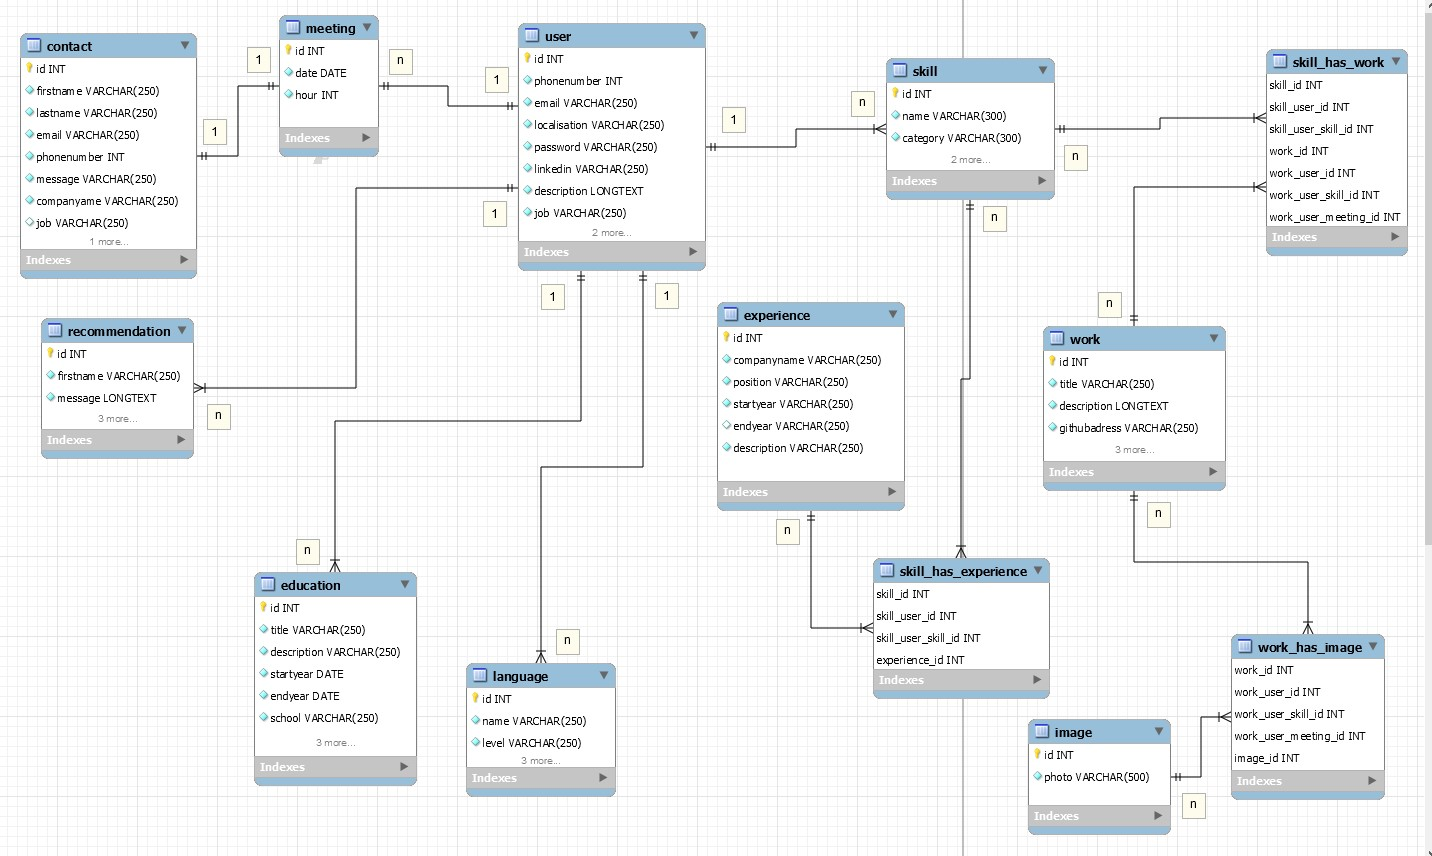
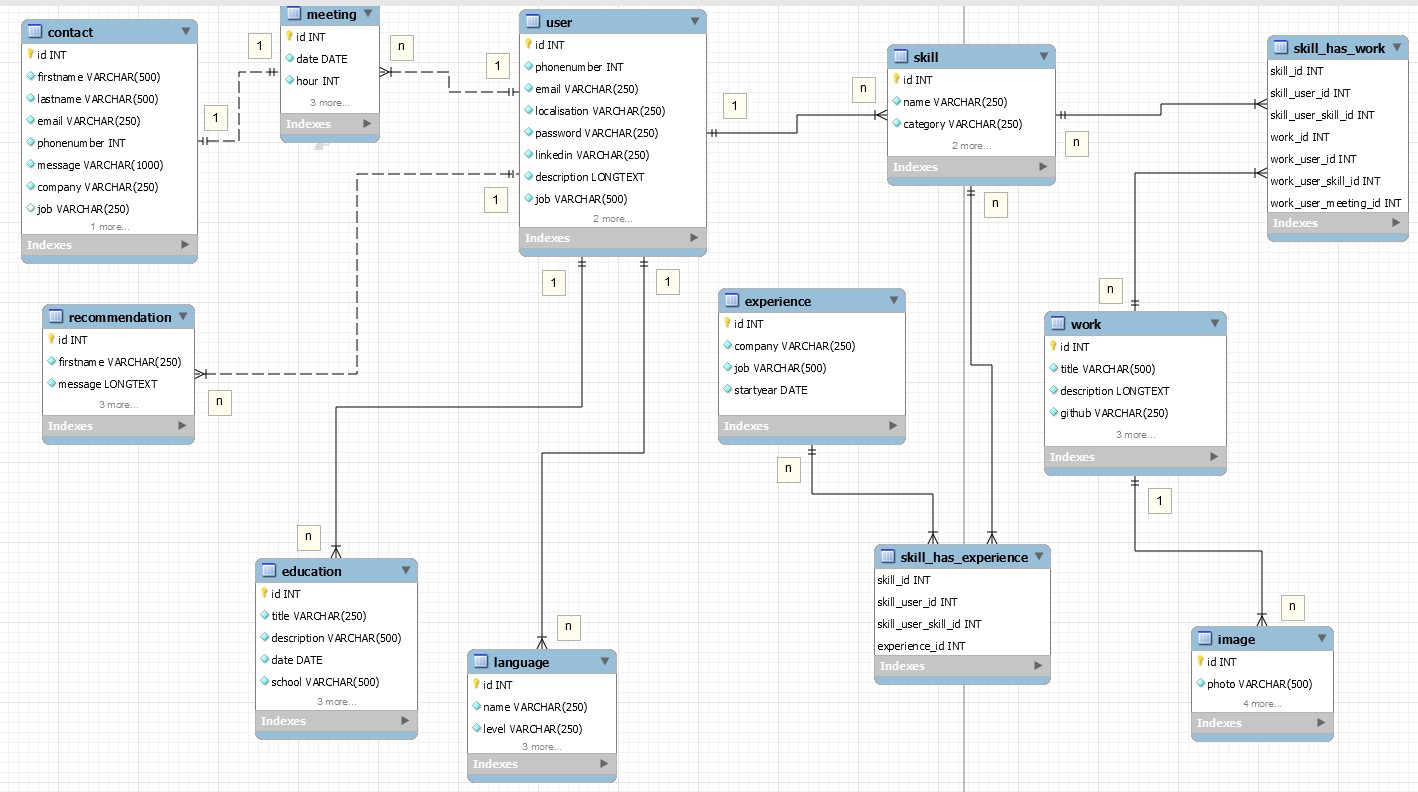
ajout entités

diff --git a/migrations/Version20240131162622.php b/migrations/Version20240131162622.php
@@ -1,0 +1,53 @@
+<?php
+
+declare(strict_types=1);
+
+namespace DoctrineMigrations;
+
+use Doctrine\DBAL\Schema\Schema;
+use Doctrine\Migrations\AbstractMigration;
+
+/**
+ * Auto-generated Migration: Please modify to your needs!
+ */
+final class Version20240131162622 extends AbstractMigration
+{
+    public function getDescription(): string
+    {
+        return '';
+    }
+
+    public function up(Schema $schema): void
+    {
+        // this up() migration is auto-generated, please modify it to your needs
+        $this->addSql('CREATE TABLE skill_work (skill_id INT NOT NULL, work_id INT NOT NULL, INDEX IDX_140FF4325585C142 (skill_id), INDEX IDX_140FF432BB3453DB (work_id), PRIMARY KEY(skill_id, work_id)) DEFAULT CHARACTER SET utf8mb4 COLLATE `utf8mb4_unicode_ci` ENGINE = InnoDB');
+        $this->addSql('CREATE TABLE skill_experience (skill_id INT NOT NULL, experience_id INT NOT NULL, INDEX IDX_10191D715585C142 (skill_id), INDEX IDX_10191D7146E90E27 (experience_id), PRIMARY KEY(skill_id, experience_id)) DEFAULT CHARACTER SET utf8mb4 COLLATE `utf8mb4_unicode_ci` ENGINE = InnoDB');
+        $this->addSql('ALTER TABLE skill_work ADD CONSTRAINT FK_140FF4325585C142 FOREIGN KEY (skill_id) REFERENCES skill (id) ON DELETE CASCADE');
+        $this->addSql('ALTER TABLE skill_work ADD CONSTRAINT FK_140FF432BB3453DB FOREIGN KEY (work_id) REFERENCES work (id) ON DELETE CASCADE');
+        $this->addSql('ALTER TABLE skill_experience ADD CONSTRAINT FK_10191D715585C142 FOREIGN KEY (skill_id) REFERENCES skill (id) ON DELETE CASCADE');
+        $this->addSql('ALTER TABLE skill_experience ADD CONSTRAINT FK_10191D7146E90E27 FOREIGN KEY (experience_id) REFERENCES experience (id) ON DELETE CASCADE');
+        $this->addSql('ALTER TABLE image ADD work_id INT DEFAULT NULL');
+        $this->addSql('ALTER TABLE image ADD CONSTRAINT FK_C53D045FBB3453DB FOREIGN KEY (work_id) REFERENCES work (id)');
+        $this->addSql('CREATE INDEX IDX_C53D045FBB3453DB ON image (work_id)');
+        $this->addSql('ALTER TABLE skill ADD user_id INT DEFAULT NULL');
+        $this->addSql('ALTER TABLE skill ADD CONSTRAINT FK_5E3DE477A76ED395 FOREIGN KEY (user_id) REFERENCES user (id)');
+        $this->addSql('CREATE INDEX IDX_5E3DE477A76ED395 ON skill (user_id)');
+    }
+
+    public function down(Schema $schema): void
+    {
+        // this down() migration is auto-generated, please modify it to your needs
+        $this->addSql('ALTER TABLE skill_work DROP FOREIGN KEY FK_140FF4325585C142');
+        $this->addSql('ALTER TABLE skill_work DROP FOREIGN KEY FK_140FF432BB3453DB');
+        $this->addSql('ALTER TABLE skill_experience DROP FOREIGN KEY FK_10191D715585C142');
+        $this->addSql('ALTER TABLE skill_experience DROP FOREIGN KEY FK_10191D7146E90E27');
+        $this->addSql('DROP TABLE skill_work');
+        $this->addSql('DROP TABLE skill_experience');
+        $this->addSql('ALTER TABLE skill DROP FOREIGN KEY FK_5E3DE477A76ED395');
+        $this->addSql('DROP INDEX IDX_5E3DE477A76ED395 ON skill');
+        $this->addSql('ALTER TABLE skill DROP user_id');
+        $this->addSql('ALTER TABLE image DROP FOREIGN KEY FK_C53D045FBB3453DB');
+        $this->addSql('DROP INDEX IDX_C53D045FBB3453DB ON image');
+        $this->addSql('ALTER TABLE image DROP work_id');
+    }
+}

diff --git a/src/Entity/Skill.php b/src/Entity/Skill.php
@@ -3,6 +3,8 @@
 namespace App\Entity;
 
 use App\Repository\SkillRepository;
+use Doctrine\Common\Collections\ArrayCollection;
+use Doctrine\Common\Collections\Collection;
 use Doctrine\ORM\Mapping as ORM;
 
 #[ORM\Entity(repositoryClass: SkillRepository::class)]
@@ -18,6 +20,21 @@ class Skill
 
     #[ORM\Column(length: 255)]
     private ?string $category = null;
+
+    #[ORM\ManyToOne(inversedBy: 'skills')]
+    private ?User $user = null;
+
+    #[ORM\ManyToMany(targetEntity: Work::class, inversedBy: 'skills')]
+    private Collection $work;
+
+    #[ORM\ManyToMany(targetEntity: Experience::class, inversedBy: 'skills')]
+    private Collection $experience;
+
+    public function __construct()
+    {
+        $this->work = new ArrayCollection();
+        $this->experience = new ArrayCollection();
+    }
 
     public function getId(): ?int
     {
@@ -44,6 +61,66 @@ class Skill
     public function setCategory(string $category): static
     {
         $this->category = $category;
+
+        return $this;
+    }
+
+    public function getUser(): ?User
+    {
+        return $this->user;
+    }
+
+    public function setUser(?User $user): static
+    {
+        $this->user = $user;
+
+        return $this;
+    }
+
+    /**
+     * @return Collection<int, Work>
+     */
+    public function getWork(): Collection
+    {
+        return $this->work;
+    }
+
+    public function addWork(Work $work): static
+    {
+        if (!$this->work->contains($work)) {
+            $this->work->add($work);
+        }
+
+        return $this;
+    }
+
+    public function removeWork(Work $work): static
+    {
+        $this->work->removeElement($work);
+
+        return $this;
+    }
+
+    /**
+     * @return Collection<int, Experience>
+     */
+    public function getExperience(): Collection
+    {
+        return $this->experience;
+    }
+
+    public function addExperience(Experience $experience): static
+    {
+        if (!$this->experience->contains($experience)) {
+            $this->experience->add($experience);
+        }
+
+        return $this;
+    }
+
+    public function removeExperience(Experience $experience): static
+    {
+        $this->experience->removeElement($experience);
 
         return $this;
     }

diff --git a/src/Entity/Work.php b/src/Entity/Work.php
@@ -3,6 +3,8 @@
 namespace App\Entity;
 
 use App\Repository\WorkRepository;
+use Doctrine\Common\Collections\ArrayCollection;
+use Doctrine\Common\Collections\Collection;
 use Doctrine\ORM\Mapping as ORM;
 
 #[ORM\Entity(repositoryClass: WorkRepository::class)]
@@ -21,6 +23,18 @@ class Work
 
     #[ORM\Column(length: 255)]
     private ?string $github = null;
+
+    #[ORM\ManyToMany(targetEntity: Skill::class, mappedBy: 'work')]
+    private Collection $skills;
+
+    #[ORM\OneToMany(mappedBy: 'work', targetEntity: Image::class)]
+    private Collection $image;
+
+    public function __construct()
+    {
+        $this->skills = new ArrayCollection();
+        $this->image = new ArrayCollection();
+    }
 
     public function getId(): ?int
     {
@@ -59,6 +73,63 @@ class Work
     public function setGithub(string $github): static
     {
         $this->github = $github;
+
+        return $this;
+    }
+
+    /**
+     * @return Collection<int, Skill>
+     */
+    public function getSkills(): Collection
+    {
+        return $this->skills;
+    }
+
+    public function addSkill(Skill $skill): static
+    {
+        if (!$this->skills->contains($skill)) {
+            $this->skills->add($skill);
+            $skill->addWork($this);
+        }
+
+        return $this;
+    }
+
+    public function removeSkill(Skill $skill): static
+    {
+        if ($this->skills->removeElement($skill)) {
+            $skill->removeWork($this);
+        }
+
+        return $this;
+    }
+
+    /**
+     * @return Collection<int, Image>
+     */
+    public function getImage(): Collection
+    {
+        return $this->image;
+    }
+
+    public function addImage(Image $image): static
+    {
+        if (!$this->image->contains($image)) {
+            $this->image->add($image);
+            $image->setWork($this);
+        }
+
+        return $this;
+    }
+
+    public function removeImage(Image $image): static
+    {
+        if ($this->image->removeElement($image)) {
+            // set the owning side to null (unless already changed)
+            if ($image->getWork() === $this) {
+                $image->setWork(null);
+            }
+        }
 
         return $this;
     }

diff --git a/src/Entity/User.php b/src/Entity/User.php
@@ -3,6 +3,8 @@
 namespace App\Entity;
 
 use App\Repository\UserRepository;
+use Doctrine\Common\Collections\ArrayCollection;
+use Doctrine\Common\Collections\Collection;
 use Doctrine\ORM\Mapping as ORM;
 
 #[ORM\Entity(repositoryClass: UserRepository::class)]
@@ -33,6 +35,14 @@ class User
 
     #[ORM\Column(length: 500)]
     private ?string $job = null;
+
+    #[ORM\OneToMany(mappedBy: 'user', targetEntity: Skill::class)]
+    private Collection $skills;
+
+    public function __construct()
+    {
+        $this->skills = new ArrayCollection();
+    }
 
     public function getId(): ?int
     {
@@ -119,6 +129,36 @@ class User
     public function setJob(string $job): static
     {
         $this->job = $job;
+
+        return $this;
+    }
+
+    /**
+     * @return Collection<int, Skill>
+     */
+    public function getSkills(): Collection
+    {
+        return $this->skills;
+    }
+
+    public function addSkill(Skill $skill): static
+    {
+        if (!$this->skills->contains($skill)) {
+            $this->skills->add($skill);
+            $skill->setUser($this);
+        }
+
+        return $this;
+    }
+
+    public function removeSkill(Skill $skill): static
+    {
+        if ($this->skills->removeElement($skill)) {
+            // set the owning side to null (unless already changed)
+            if ($skill->getUser() === $this) {
+                $skill->setUser(null);
+            }
+        }
 
         return $this;
     }

diff --git a/src/Entity/Experience.php b/src/Entity/Experience.php
@@ -3,6 +3,8 @@
 namespace App\Entity;
 
 use App\Repository\ExperienceRepository;
+use Doctrine\Common\Collections\ArrayCollection;
+use Doctrine\Common\Collections\Collection;
 use Doctrine\DBAL\Types\Types;
 use Doctrine\ORM\Mapping as ORM;
 
@@ -22,6 +24,14 @@ class Experience
 
     #[ORM\Column(type: Types::DATE_MUTABLE)]
     private ?\DateTimeInterface $startyear = null;
+
+    #[ORM\ManyToMany(targetEntity: Skill::class, mappedBy: 'experience')]
+    private Collection $skills;
+
+    public function __construct()
+    {
+        $this->skills = new ArrayCollection();
+    }
 
     public function getId(): ?int
     {
@@ -60,6 +70,33 @@ class Experience
     public function setStartyear(\DateTimeInterface $startyear): static
     {
         $this->startyear = $startyear;
+
+        return $this;
+    }
+
+    /**
+     * @return Collection<int, Skill>
+     */
+    public function getSkills(): Collection
+    {
+        return $this->skills;
+    }
+
+    public function addSkill(Skill $skill): static
+    {
+        if (!$this->skills->contains($skill)) {
+            $this->skills->add($skill);
+            $skill->addExperience($this);
+        }
+
+        return $this;
+    }
+
+    public function removeSkill(Skill $skill): static
+    {
+        if ($this->skills->removeElement($skill)) {
+            $skill->removeExperience($this);
+        }
 
         return $this;
     }

diff --git a/src/Entity/Image.php b/src/Entity/Image.php
@@ -16,6 +16,9 @@ class Image
     #[ORM\Column(length: 500)]
     private ?string $photo = null;
 
+    #[ORM\ManyToOne(inversedBy: 'image')]
+    private ?Work $work = null;
+
     public function getId(): ?int
     {
         return $this->id;
@@ -29,6 +32,18 @@ class Image
     public function setPhoto(string $photo): static
     {
         $this->photo = $photo;
+
+        return $this;
+    }
+
+    public function getWork(): ?Work
+    {
+        return $this->work;
+    }
+
+    public function setWork(?Work $work): static
+    {
+        $this->work = $work;
 
         return $this;
     }
